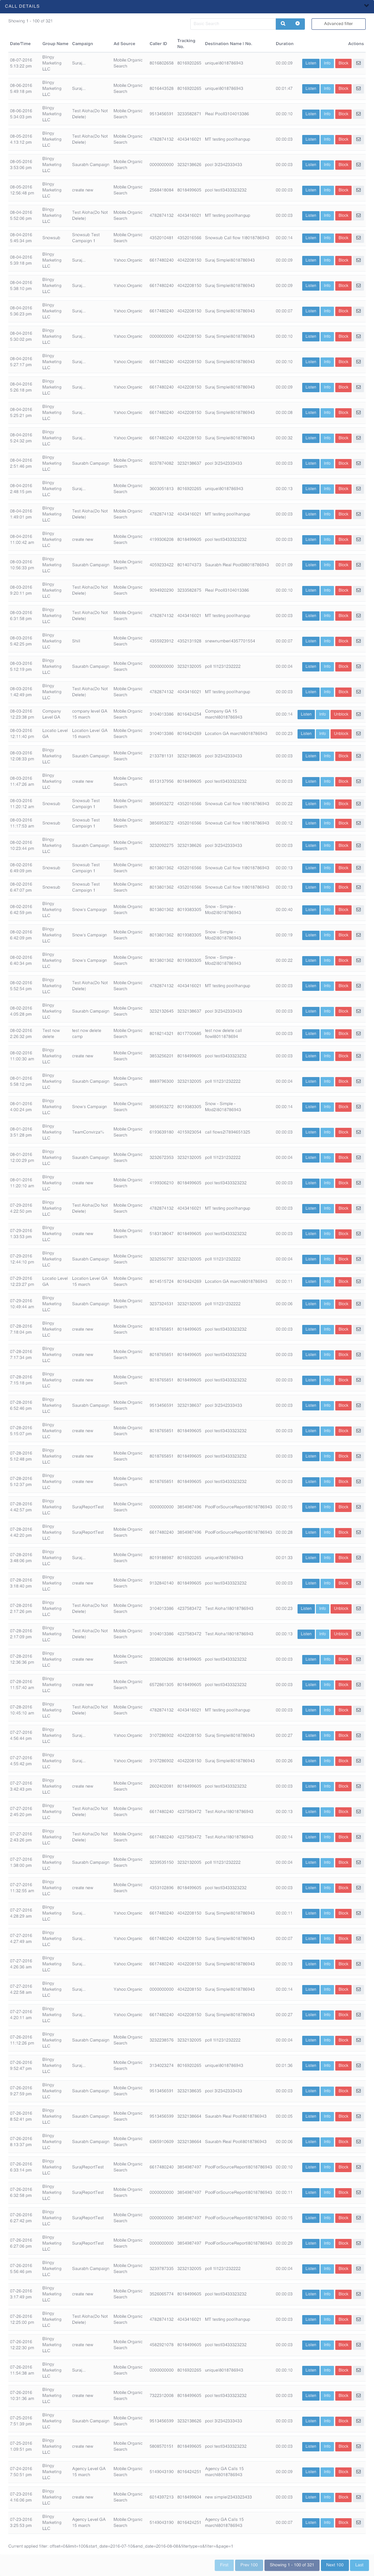
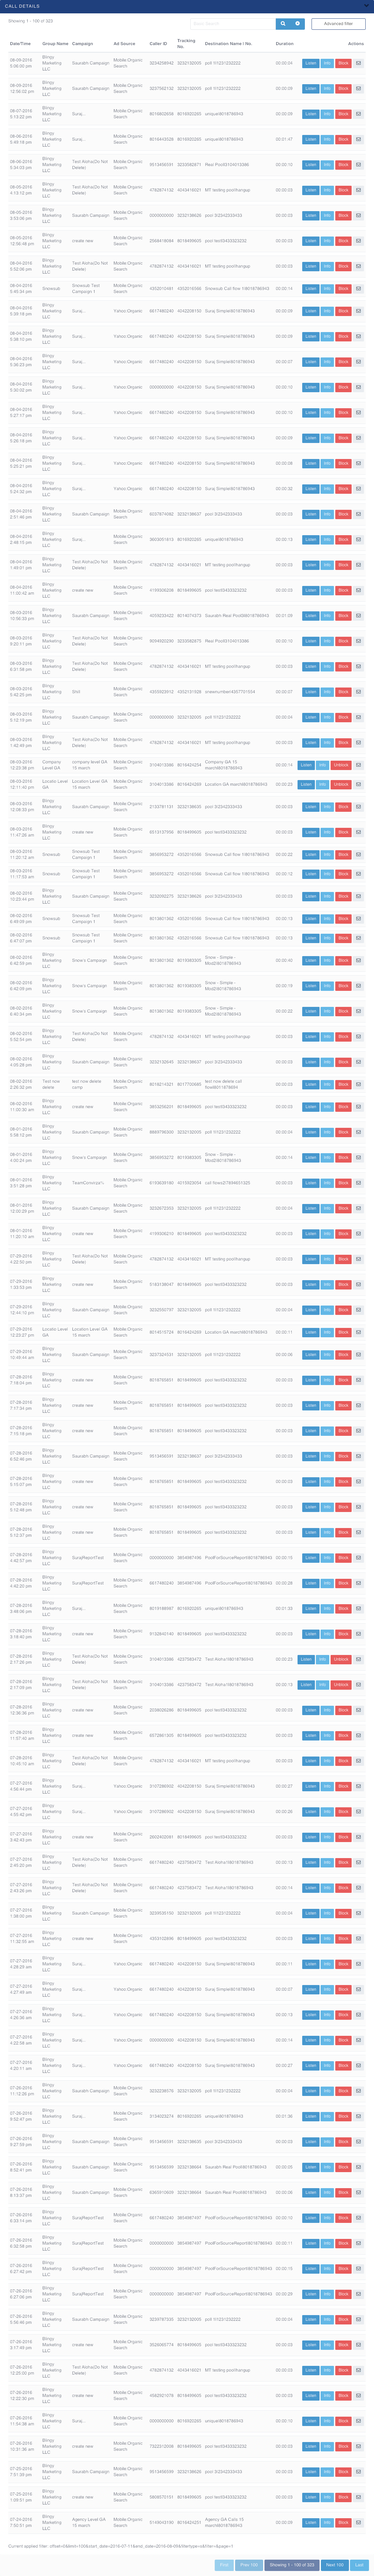
fixed logic for else statements

diff --git a/kitchen.js b/kitchen.js
@@ -60,10 +60,10 @@ co(function*() {
   yield horseman.waitForSelector('.mb10'); // Waiting for page of selector
   yield horseman.viewport(1200, 980);
 
-  yield horseman.evaluate(function() { // Changing date range
-    $('fa-calendar').click();
-    $("li:contains('Last 30 Days')").click();
-  })
+  // yield horseman.evaluate(function() { // Changing date range
+  //   $('fa-calendar').click();
+  //   $("li:contains('Last 30 Days')").click();
+  // })
 
   yield horseman.wait(4000);
 
@@ -76,11 +76,13 @@ co(function*() {
 
   var text = yield horseman.text('.mb10'); // Calculating paginated pages
   var paginationIndicator = text.split(' ').reverse();
+  // console.log('paginationIndicator', paginationIndicator);
   var page = (Math.ceil(paginationIndicator[0] / 100))
+  // console.log('page', page);
 
   pageAmt.unshift(page);
   var pageLogic = pageAmt[0];
-  console.log('# of paginated pages: ', pageLogic); // # of paginated pages: #
+  console.log('# of paginated pages: ', pageLogic); // # of paginated pages: 4
 
   switch (config.format) {
 
@@ -106,9 +108,12 @@ co(function*() {
         }
       } else {
         yield horseman.evaluate(function() {
-          var cleanUrl = document.URL.split('?')[1];
-          var route = cleanUrl.substr(cleanUrl.indexOf("#") + 2);
-          $('#page-heading').append('<span id=cleanBC>Current applied filter: ' + cleanUrl + '</span>');
+          var filter = document.URL.split('?')[1];
+          if (filter !== undefined) {
+            $(document).ready(function() {
+              $('#cdr_table').append('<span id=cleanBC>Current applied filter: ' + filter + '</span>');
+            });
+          }
         })
         namely.unshift(config.OU + '-' + routes[0] + '-' + config.frequencyInHour + '-' + i); //  **** NEW NAMING CONVENTION HERE
 
@@ -161,9 +166,12 @@ co(function*() {
 
       } else {
         yield horseman.evaluate(function() {
-          var cleanUrl = document.URL.split('?')[1];
-          var route = cleanUrl.substr(cleanUrl.indexOf("#") + 2);
-          $('#page-heading').append('<span id=cleanBC>Current applied filter: ' + cleanUrl + '</span>');
+          var filter = document.URL.split('?')[1];
+          if (filter !== undefined) {
+            $(document).ready(function() {
+              $('#cdr_table').append('<span id=cleanBC>Current applied filter: ' + filter + '</span>');
+            });
+          }
         })
         namely.unshift(config.OU + '-' + routes[0] + '-' + config.frequencyInHour + '-' + i); //  **** NEW NAMING CONVENTION HERE
         yield horseman.pdf('co/' + namely[0] + '.pdf', {
